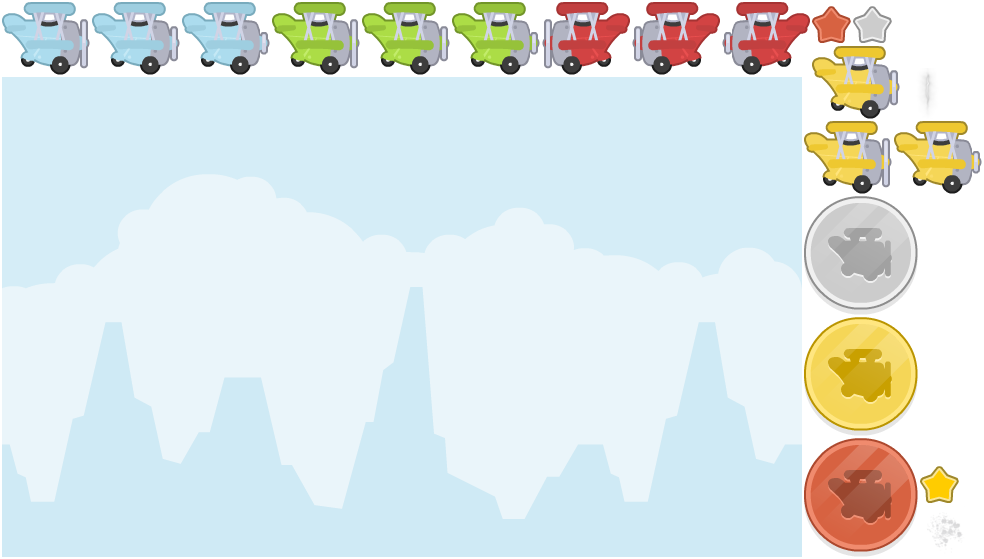
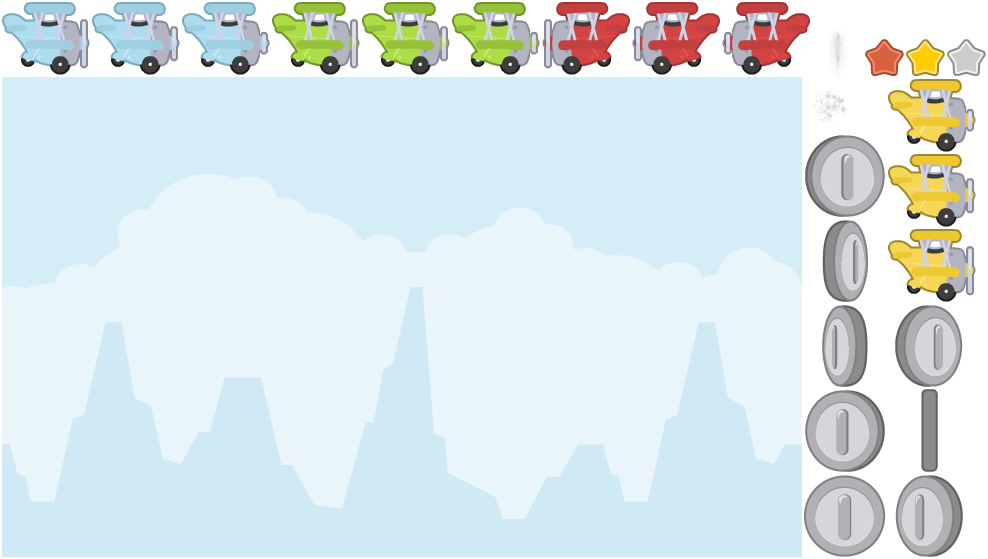
added bonuses rendering

diff --git a/core/src/net/estemon/studio/screens/game/GameRenderer.java b/core/src/net/estemon/studio/screens/game/GameRenderer.java
@@ -12,6 +12,7 @@ import com.badlogic.gdx.graphics.g2d.TextureAtlas;
 import com.badlogic.gdx.graphics.g2d.TextureRegion;
 import com.badlogic.gdx.graphics.glutils.ShapeRenderer;
 import com.badlogic.gdx.math.Vector2;
+import com.badlogic.gdx.scenes.scene2d.ui.Image;
 import com.badlogic.gdx.utils.Disposable;
 import com.badlogic.gdx.utils.viewport.FitViewport;
 import com.badlogic.gdx.utils.viewport.Viewport;
@@ -22,6 +23,7 @@ import net.estemon.studio.assets.RegionNames;
 import net.estemon.studio.config.GameConfig;
 import net.estemon.studio.entity.Background;
 import net.estemon.studio.entity.Bonus;
+import net.estemon.studio.entity.BonusKind;
 import net.estemon.studio.entity.Enemy;
 import net.estemon.studio.entity.Player;
 import net.estemon.studio.utils.GdxUtils;
@@ -41,6 +43,7 @@ public class GameRenderer implements Disposable {
     private final AssetManager assetManager;
     private final SpriteBatch batch;
 
+    // Background
     private TextureRegion backgroundRegion;
     private float backgroundX;
     private float backgroundX2;
@@ -48,16 +51,22 @@ public class GameRenderer implements Disposable {
 
     private int previousY = 0;
 
+    // Particles
     private ParticleEffect particleEffect1;
     private ParticleEffect particleEffect2;
 
+    // Player
     public static TextureRegion[] player;
     public static Animation playerAnim;
 
-
+    // Enemies
     public static TextureRegion[] enemy;
     public static Animation enemyAnim;
     public static float propellerAnimationTime = 0f;
+
+    public static TextureRegion[] bonus;
+    public static Animation bonusAnim;
+    public static float bonusAnimationTime = 0f;
 
     // Getter for UiRenderer
     public Viewport getUiViewport() { return uiViewport; }
@@ -91,6 +100,7 @@ public class GameRenderer implements Disposable {
         
         Animations.playerPlaneAnimation(assetManager);
         Animations.enemyPlaneAnimation(assetManager);
+        Animations.bonusAnimation(assetManager);
 
         particleEffect1 = new ParticleEffect();
         particleEffect1.load(Gdx.files.internal("particles/particle1.p"), gameplayAtlas);
@@ -110,12 +120,10 @@ public class GameRenderer implements Disposable {
         debugCameraController.handleDebugInput(delta);
         debugCameraController.applyTo(camera);
 
-        if (Gdx.input.isTouched() && !controller.isGameOver()) {
+/*        if (Gdx.input.isTouched() && !controller.isGameOver()) {
             Vector2 screenTouch = new Vector2(Gdx.input.getX(), Gdx.input.getY());
             Vector2 worldTouch = viewport.unproject(new Vector2(screenTouch));
-
-
-        }
+        }*/
 
         GdxUtils.clearScreen();
 
@@ -160,8 +168,9 @@ public class GameRenderer implements Disposable {
         batch.setProjectionMatrix(camera.combined);
         batch.begin();
 
-        // drawBackground(); // uncomment to draw bg textures
+        drawBackground(); // uncomment to draw bg textures
         drawPlayer(delta); // uncomment to draw player textures
+        drawBonus(delta);
         drawEnemies(); // uncomment to draw enemy planes textures
 
         int lives = controller.getLives();
@@ -224,6 +233,39 @@ public class GameRenderer implements Disposable {
         }
     }
 
+    private void drawBonus(float delta) {
+        for (Bonus bonus : controller.getBonuses()) {
+            bonusAnimationTime += delta;
+            TextureRegion currentFrame = (TextureRegion) bonusAnim.getKeyFrame(bonusAnimationTime, true);
+
+            // Set color depending on bonus kind
+            Color tint = getColorForBonusType(bonus.getKind());
+            batch.setColor(tint);
+            batch.draw(
+                    currentFrame,
+                    bonus.getX(), bonus.getY(),
+                    bonus.getWidth() / 2, bonus.getHeight() / 2,
+                    bonus.getWidth(), bonus.getHeight(),
+                    GameConfig.BONUS_SIZE, GameConfig.BONUS_SIZE, 0
+            );
+
+            // Reset batch color to original
+            batch.setColor(Color.WHITE);
+        }
+    }
+
+    private Color getColorForBonusType(BonusKind kind) {
+        switch (kind) {
+            case GOLD:
+                return Color.GOLD;
+            case SILVER:
+                return Color.LIGHT_GRAY;
+            case BRONZE:
+                return Color.SALMON;
+            default:
+                return Color.WHITE;
+        }
+    }
 
     private void drawEnemies() {
         for (Enemy enemy : controller.getEnemies()) {

diff --git a/core/src/net/estemon/studio/assets/Animations.java b/core/src/net/estemon/studio/assets/Animations.java
@@ -1,11 +1,14 @@
 package net.estemon.studio.assets;
 
+import com.badlogic.gdx.Game;
 import com.badlogic.gdx.assets.AssetManager;
 import com.badlogic.gdx.graphics.g2d.Animation;
 import com.badlogic.gdx.graphics.g2d.TextureAtlas;
 import com.badlogic.gdx.graphics.g2d.TextureRegion;
 
 import net.estemon.studio.screens.game.GameRenderer;
+
+import jdk.tools.jlink.internal.plugins.StripNativeCommandsPlugin;
 
 public class Animations {
 
@@ -34,6 +37,18 @@ public class Animations {
         }
 
         GameRenderer.enemyAnim = new Animation<>(0.03f, GameRenderer.enemy);
-        GameRenderer.playerAnim.setPlayMode(Animation.PlayMode.LOOP);
+        GameRenderer.enemyAnim.setPlayMode(Animation.PlayMode.LOOP);
+    }
+
+    public static void bonusAnimation(AssetManager assetManager) {
+        gameplayAtlas = assetManager.get(AssetDescriptors.GAMEPLAY_ATLAS);
+        GameRenderer.bonus = new TextureRegion[8];
+
+        for (int i = 0; i < GameRenderer.bonus.length; i++) {
+            String regionName = "coin" + (i + 1);
+            GameRenderer.bonus[i] = gameplayAtlas.findRegion(regionName);
+        }
+        GameRenderer.bonusAnim = new Animation<>(0.03f, GameRenderer.bonus);
+        GameRenderer.bonusAnim.setPlayMode(Animation.PlayMode.LOOP);
     }
 }

diff --git a/desktop/src/net/estemon/studio/AssetPacker.java b/desktop/src/net/estemon/studio/AssetPacker.java
@@ -5,7 +5,7 @@ import com.badlogic.gdx.tools.texturepacker.TexturePacker;
 public class AssetPacker {
 
     private static final boolean DRAW_DEBUG_OUTLINE = false;
-    private static final String RAW_ASSETS_PATH = "assets/new"; // origin
+    private static final String RAW_ASSETS_PATH = "assets/origin"; // origin
     private static final String ASSETS_PATH = "assets"; // destination
 
     public static void main(String[] args) {

diff --git a/core/src/net/estemon/studio/config/GameConfig.java b/core/src/net/estemon/studio/config/GameConfig.java
@@ -63,7 +63,7 @@ public class GameConfig {
 
     // Bonus values
     public static final int BONUS_MAX_COUNT = 5;
-    public static final float BONUS_SIZE = 0.6f;
+    public static final float BONUS_SIZE = 0.8f;
     public static final float BONUS_BOUNDS = BONUS_SIZE / 3;
 
     public static final int GOLD_BONUS = 60;

diff --git a/core/src/net/estemon/studio/screens/game/GameController.java b/core/src/net/estemon/studio/screens/game/GameController.java
@@ -118,7 +118,7 @@ public class GameController {
             updateScore(collidedBonus.getValue());
         }
 
-        // updateEnemies(delta);
+        updateEnemies(delta);
         updateScore(delta);
         updateDisplayScore(delta);
         if (isPlayerCollidingWithEnemy()) {

diff --git a/core/src/net/estemon/studio/entity/Bonus.java b/core/src/net/estemon/studio/entity/Bonus.java
@@ -31,6 +31,10 @@ public class Bonus extends GameObjectBase implements Pool.Poolable {
         this.value = kind.getValue(); // Get bonus value
     }
 
+    public BonusKind getKind() {
+        return kind;
+    }
+
     public int getValue() {
         return value;
     }

diff --git a/core/src/net/estemon/studio/assets/RegionNames.java b/core/src/net/estemon/studio/assets/RegionNames.java
@@ -5,4 +5,6 @@ public class RegionNames {
 
     public static final String BACKGROUND = "background";
     public static final String PLAYER = "planeGreen1";
+
+    public static final String COIN_BONUS = "coin";
 }
